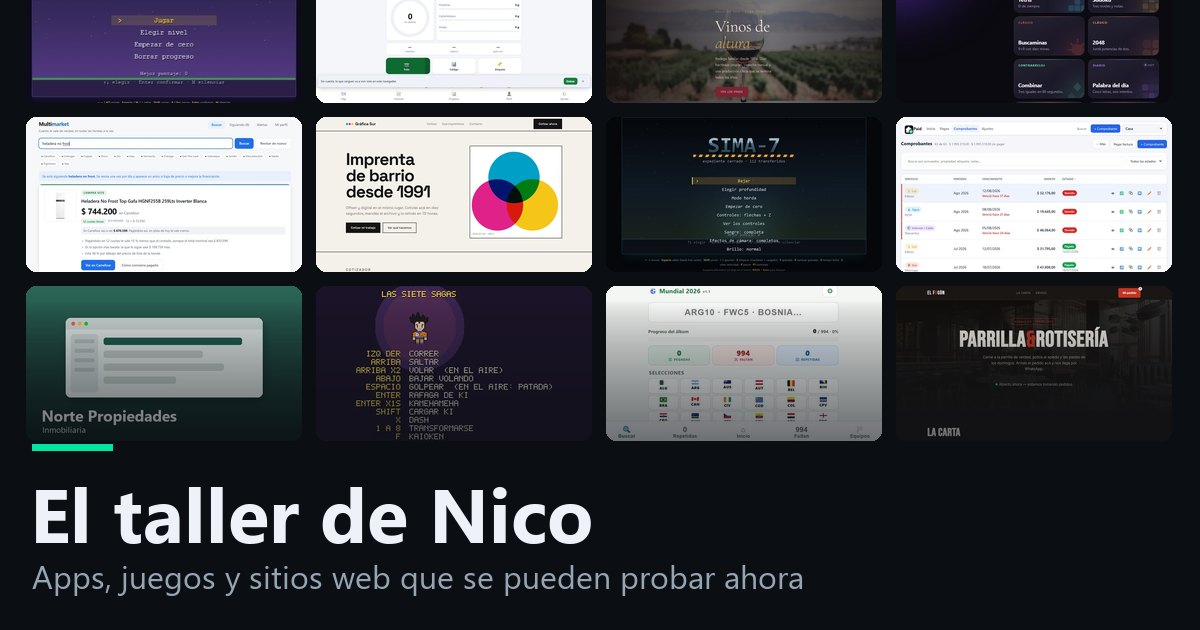
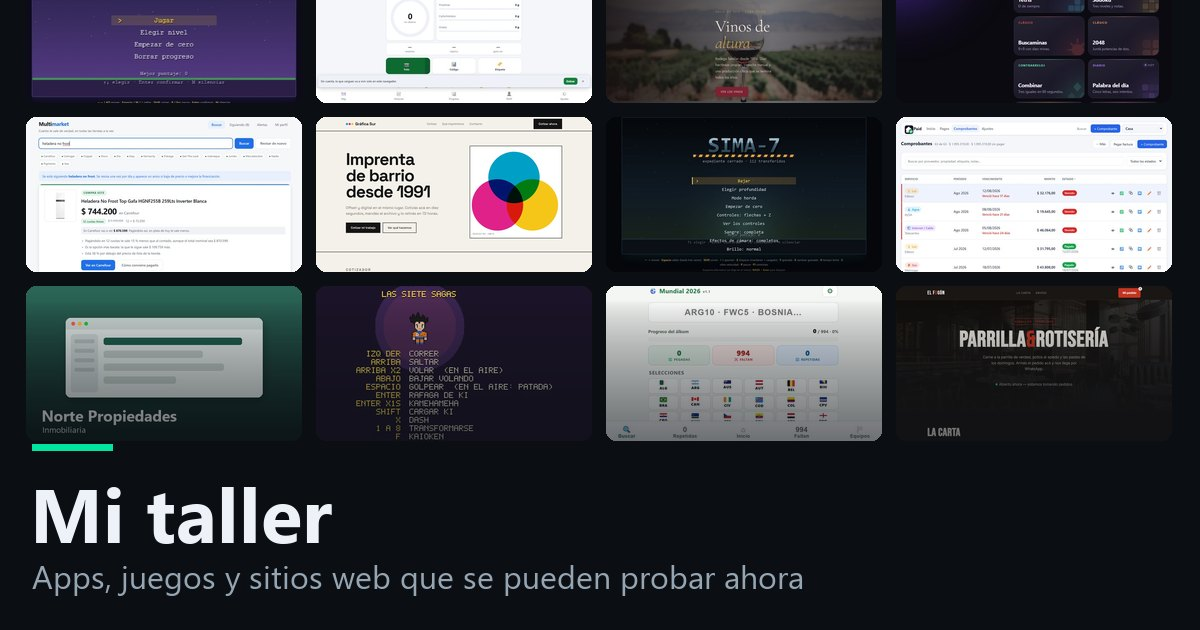
Menos datos personales en el sitio público
El taller pasa a llamarse "Mi taller" (títulos, manifest, imagen para
compartir y datos estructurados, que tenían el nombre completo como autor).
La portada de sitios deja de mostrar el nombre completo. La página de casos
queda sin mail, con "Buenos Aires, Argentina" y sin nombrar al cliente.

Changed region(s): [[0.0308, 0.754, 0.4933, 0.8746]]

diff --git a/sitios/index.html b/sitios/index.html
@@ -3,7 +3,7 @@
 <head>
 <meta charset="utf-8">
 <meta name="viewport" content="width=device-width, initial-scale=1">
-<title>Sitios web · Nico Guerrero</title>
+<title>Sitios web · Mi taller</title>
 <meta name="description" content="Turnos, reservas, pedidos y ventas desde tu propia web. Doce sitios de ejemplo, uno por rubro: gastronomía, salud, turismo, inmobiliaria, e-commerce, eventos y más.">
 <link rel="preconnect" href="https://fonts.googleapis.com">
 <link rel="preconnect" href="https://fonts.gstatic.com" crossorigin>
@@ -115,12 +115,12 @@
 <link rel="icon" href="/favicon.ico" sizes="any">
 <meta property="og:type" content="website">
 <meta property="og:url" content="https://fnguerrero.github.io/sitios/">
-<meta property="og:title" content="Sitios web · Nico Guerrero">
+<meta property="og:title" content="Sitios web · Mi taller">
 <meta property="og:description" content="Turnos, reservas, pedidos y ventas desde tu propia web. Ejemplos reales por rubro, todos navegables.">
 <meta property="og:image" content="https://fnguerrero.github.io/img/sitios.jpg">
 <meta property="og:locale" content="es_AR">
 <meta name="twitter:card" content="summary_large_image">
-<meta name="twitter:title" content="Sitios web · Nico Guerrero">
+<meta name="twitter:title" content="Sitios web · Mi taller">
 <meta name="twitter:description" content="Turnos, reservas, pedidos y ventas desde tu propia web. Ejemplos reales por rubro, todos navegables.">
 <meta name="twitter:image" content="https://fnguerrero.github.io/img/sitios.jpg">
 </head>
@@ -128,7 +128,7 @@
 
 <div class="wrap">
   <header>
-    <a class="volver" href="/taller/">← El taller de Nico</a>
+    <a class="volver" href="/taller/">← Mi taller</a>
     <p class="kicker">Diseño y desarrollo web</p>
     <h1 class="serif">Turnos, reservas, pedidos y ventas.
       <span class="junto">Desde <em>tu propia</em> web.</span></h1>
@@ -159,7 +159,7 @@
   </section>
 
   <footer>
-    <span>© 2026 Nico Guerrero</span>
+    <span>© 2026 Mi taller</span>
     <span><a href="/taller/" style="text-decoration:none">Volver al taller</a></span>
   </footer>
 </div>

diff --git a/taller/index.html b/taller/index.html
@@ -3,7 +3,7 @@
 <head>
 <meta charset="utf-8">
 <meta name="viewport" content="width=device-width,initial-scale=1">
-<title>El taller de Nico</title>
+<title>Mi taller</title>
 <meta name="description" content="Herramientas, apps y juegos que construyo con IA: qué hace cada uno y cuáles se pueden probar ahora.">
 <link rel="icon" href="/favicon.ico" sizes="any">
 <link rel="apple-touch-icon" href="/apple-touch-icon.png">
@@ -15,7 +15,7 @@
 <meta name="theme-color" content="#0B0F14">
 <meta property="og:type" content="website">
 <meta property="og:url" content="https://fnguerrero.github.io/taller/">
-<meta property="og:title" content="El taller de Nico">
+<meta property="og:title" content="Mi taller">
 <meta property="og:description" content="Herramientas, apps, juegos y sitios web propios: qué hace cada uno y cuáles se pueden probar ahora.">
 <meta property="og:image" content="https://fnguerrero.github.io/img/taller-compartir.jpg">
 <meta property="og:image:width" content="1200">
@@ -23,7 +23,7 @@
 <meta property="og:image:alt" content="Portadas de apps, juegos y sitios web del taller">
 <meta property="og:locale" content="es_AR">
 <meta name="twitter:card" content="summary_large_image">
-<meta name="twitter:title" content="El taller de Nico">
+<meta name="twitter:title" content="Mi taller">
 <meta name="twitter:description" content="Herramientas, apps, juegos y sitios web propios: qué hace cada uno y cuáles se pueden probar ahora.">
 <meta name="twitter:image" content="https://fnguerrero.github.io/img/taller-compartir.jpg">
 </head>
@@ -77,10 +77,9 @@ function datosEstructurados(grupos) {
   s.textContent = JSON.stringify({
     "@context": "https://schema.org",
     "@type": "CollectionPage",
-    name: "El taller de Nico",
+    name: "Mi taller",
     url: "https://fnguerrero.github.io/taller/",
     inLanguage: "es-AR",
-    author: {"@type": "Person", name: "Nico Guerrero", url: "https://fnguerrero.github.io/taller/"},
     mainEntity: {"@type": "ItemList", numberOfItems: items.length, itemListElement: items}
   });
   document.head.appendChild(s);

diff --git a/casos/index.html b/casos/index.html
@@ -142,9 +142,8 @@
     <div class="eyebrow">Portfolio · casos</div>
     <h1>Nicolás Guerrero</h1>
     <p class="rol">Desarrollador .NET Senior · IA aplicada</p>
-    <p class="intro">13 años de .NET en YPF, Techint y Telecom Personal. Backend en C# y ASP.NET Core, front en React, y la IA aplicada como diferencial: agentes, Claude Code y servidores MCP.</p>
+    <p class="intro">13 años de .NET en YPF, Techint, Telecom Personal y, hoy, la receta electrónica de un cliente del sector salud. Backend en C# y ASP.NET Core, front en React, y la IA aplicada como diferencial: agentes, Claude Code y servidores MCP.</p>
     <div class="links">
-      <a class="btn primary" href="mailto:hola@ejemplo.com.ar">hola@ejemplo.com.ar</a>
       <a class="btn" href="https://github.com/fnguerrero">GitHub</a>
     </div>
   </div>
@@ -278,8 +277,8 @@
 
 <footer>
   <div class="wrap">
-    <span>Nicolás Guerrero · Buenos Aires</span>
-    <span><a href="mailto:hola@ejemplo.com.ar">hola@ejemplo.com.ar</a> · <a href="https://github.com/fnguerrero">GitHub</a></span>
+    <span>Nicolás Guerrero · Buenos Aires, Argentina</span>
+    <span><a href="https://github.com/fnguerrero">GitHub</a></span>
   </div>
 </footer>
 

diff --git a/404.html b/404.html
@@ -3,7 +3,7 @@
 <head>
 <meta charset="utf-8">
 <meta name="viewport" content="width=device-width,initial-scale=1">
-<title>Esta página no existe · El taller de Nico</title>
+<title>Esta página no existe · Mi taller</title>
 <meta name="robots" content="noindex">
 <link rel="icon" href="/favicon.ico" sizes="any">
 <link rel="apple-touch-icon" href="/apple-touch-icon.png">

diff --git a/index.html b/index.html
@@ -3,7 +3,7 @@
 <head>
 <meta charset="utf-8">
 <meta name="viewport" content="width=device-width,initial-scale=1">
-<title>El taller de Nico</title>
+<title>Mi taller</title>
 <link rel="canonical" href="https://fnguerrero.github.io/taller/">
 <meta http-equiv="refresh" content="0; url=/taller/">
 <meta name="robots" content="noindex">

diff --git a/tools/imagen-compartir.py b/tools/imagen-compartir.py
@@ -67,7 +67,7 @@ def main():
     dr = ImageDraw.Draw(lienzo)
     titulo = ImageFont.truetype(os.path.join(FUENTES, 'segoeuib.ttf'), 76)
     bajada = ImageFont.truetype(os.path.join(FUENTES, 'segoeui.ttf'), 32)
-    dr.text((margen + 4, H - 170), 'El taller de Nico', font=titulo, fill=(236, 242, 247))
+    dr.text((margen + 4, H - 170), 'Mi taller', font=titulo, fill=(236, 242, 247))
     dr.text((margen + 6, H - 76), 'Apps, juegos y sitios web que se pueden probar ahora',
             font=bajada, fill=(150, 165, 178))
     # una raya del color de acento del tema neon, para que no sea solo texto gris
